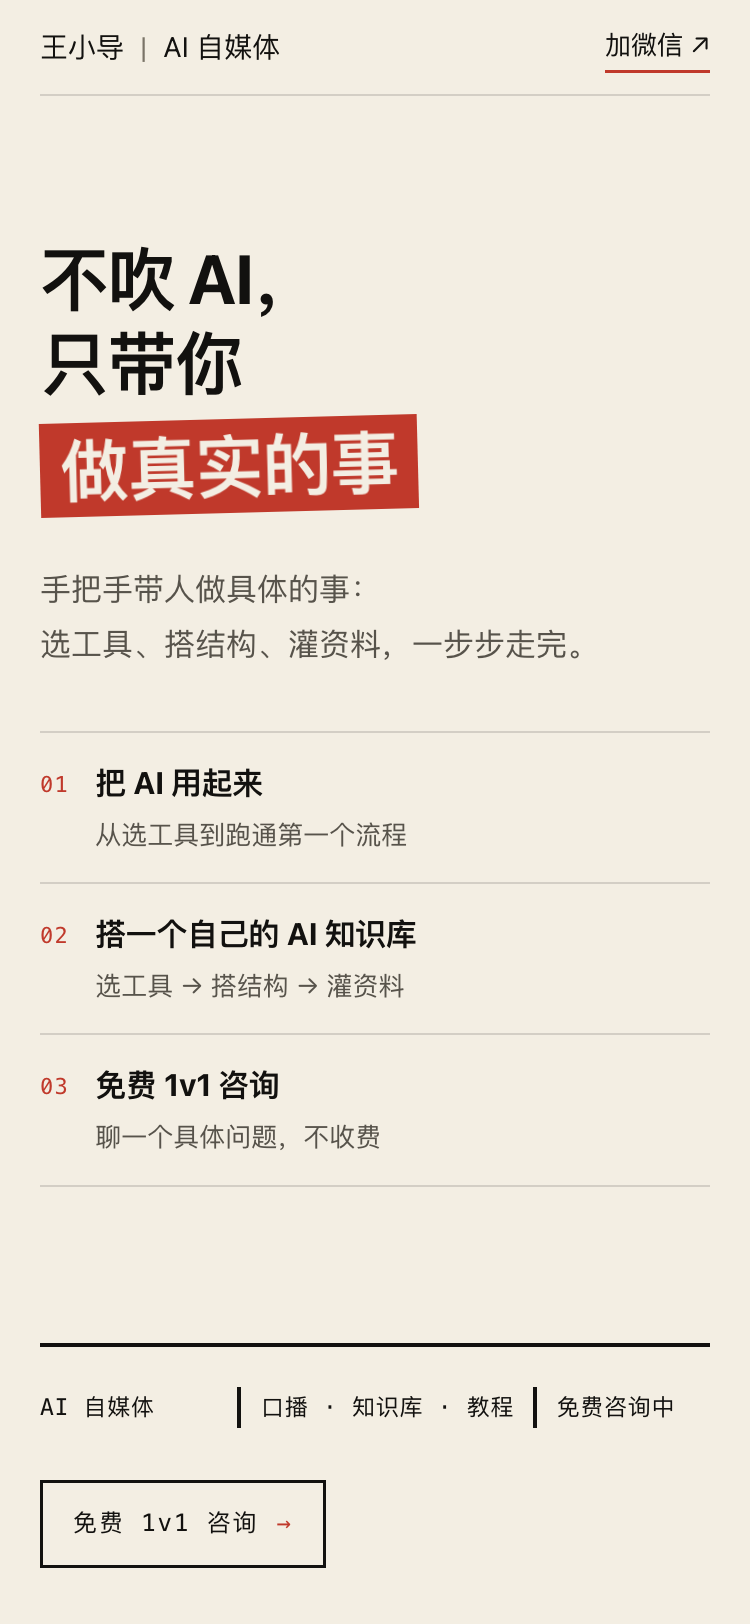
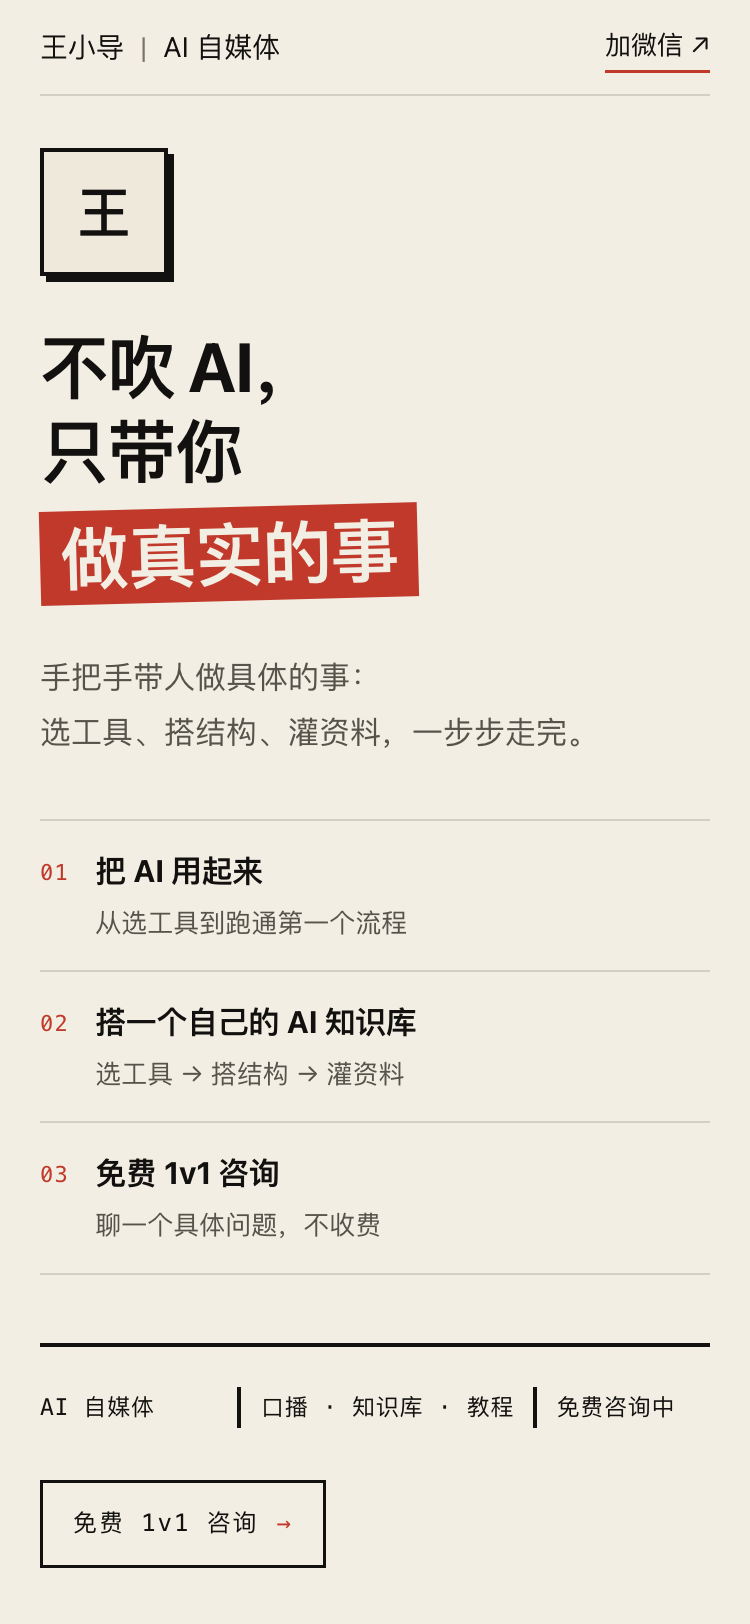
关于我加技能标签侧栏；首屏列表与分隔线对齐；头像提到首屏

diff --git a/index.html b/index.html
@@ -107,7 +107,7 @@
   }
   .lede{margin-top:22px;font-size:15.5px;line-height:1.75;color:var(--gray);max-width:30em}
   .nb{white-space:nowrap}
-  .can{list-style:none;margin-top:30px;border-top:1px solid var(--line);max-width:34em}
+  .can{list-style:none;margin-top:30px;border-top:1px solid var(--line)}
   .can li{
     display:flex;gap:13px;padding:14px 0;
     border-bottom:1px solid var(--line);line-height:1.45;
@@ -153,16 +153,30 @@
   }
   .sec-head h2{font-size:26px;font-weight:700;letter-spacing:-.02em}
 
-  /* 关于我 */
-  .about{display:grid;grid-template-columns:1fr;gap:24px}
+  /* 首屏头像 */
+  .hero-id{display:flex;align-items:center;margin-bottom:24px}
   .avatar{
-    width:96px;height:96px;flex:none;
-    border:2px solid var(--ink);box-shadow:4px 4px 0 var(--ink);
+    width:64px;height:64px;flex:none;
+    border:2px solid var(--ink);box-shadow:3px 3px 0 var(--ink);
     background:#EFE9DC;position:relative;overflow:hidden;
     display:grid;place-items:center;
-    font-size:40px;font-weight:700;letter-spacing:0;
+    font-size:27px;font-weight:700;letter-spacing:0;
   }
   .avatar img{position:absolute;inset:0;width:100%;height:100%;object-fit:cover}
+
+  /* 关于我 */
+  .about{display:grid;grid-template-columns:1fr;gap:32px}
+  .tags-h{
+    font-family:var(--mono);font-size:11px;letter-spacing:.08em;
+    color:var(--gray);
+    border-top:2px solid var(--ink);
+    padding-top:13px;margin-bottom:14px;
+  }
+  .tag-list{list-style:none;display:flex;flex-wrap:wrap;gap:8px}
+  .tag-list li{
+    border:1.5px solid var(--ink);padding:5px 11px;
+    font-size:13px;line-height:1.45;white-space:nowrap;
+  }
   .about-text{display:flex;gap:14px}
   .about-text .bar{width:6px;background:var(--red);flex:none}
   .about-text p{font-size:16px;line-height:1.9;max-width:34em}
@@ -270,11 +284,11 @@
 
   /* ---------- 平板 ---------- */
   @media (min-width:600px){
-    .about{grid-template-columns:112px 1fr;gap:26px;align-items:start}
-    .avatar{width:112px;height:112px;font-size:40px;box-shadow:5px 5px 0 var(--ink)}
+    .avatar{width:76px;height:76px;font-size:31px;box-shadow:4px 4px 0 var(--ink)}
     .cards{grid-template-columns:1fr 1fr;gap:22px}
     .card:last-child{grid-column:1 / -1}
     .card .what{max-width:30em}
+    .about-text p{max-width:32em}
   }
 
   /* ---------- 桌面 ---------- */
@@ -312,13 +326,15 @@
     .band{display:none}
     .sec-head{margin-bottom:32px}
     .sec-head h2{font-size:32px}
-    .about{grid-template-columns:150px 1fr;gap:32px;align-items:start}
-    .avatar{width:150px;height:150px;font-size:58px;box-shadow:6px 6px 0 var(--ink)}
+    .about{display:grid;grid-template-columns:minmax(0,1fr) 244px;column-gap:56px;align-items:start}
+    .tag-list{flex-direction:column;align-items:flex-start;gap:7px}
+    .about-text p{font-size:17px;max-width:none}
+    .hero-id{margin-bottom:32px}
+    .avatar{width:88px;height:88px;font-size:37px;box-shadow:4px 4px 0 var(--ink)}
     .about-text .bar{width:8px}
     .cards{grid-template-columns:repeat(3,1fr);gap:22px}
     .card:last-child{grid-column:auto}
     .card{padding:28px 24px}
-    .about-text p{max-width:38em}
     .contact{padding:88px 0 80px;position:relative;overflow:hidden}
     .contact .note{max-width:32em}
     .act{margin-top:34px;text-align:left}
@@ -347,6 +363,13 @@
   </div>
 
   <div class="hero-main">
+    <div class="hero-id">
+      <div class="avatar">
+        <span>王</span>
+        <img src="./avatar.jpg" alt="王小导的头像" onerror="this.remove()">
+      </div>
+    </div>
+
     <h1>不吹 AI，<br>只带你<br><span class="sticker">做真实的事</span></h1>
 
     <p class="lede"><span class="nb">手把手带人做具体的事：</span><span class="nb">选工具、搭结构、灌资料，一步步走完。</span></p>
@@ -389,10 +412,6 @@
   <section class="wrap" id="about">
     <div class="sec-head"><span class="num">01</span><h2>关于我</h2></div>
     <div class="about">
-      <div class="avatar">
-        <span>王</span>
-        <img src="./avatar.jpg" alt="王小导的头像" onerror="this.remove()">
-      </div>
       <div class="about-text">
         <div class="bar"></div>
         <div>
@@ -400,6 +419,17 @@
           <p>我不太擅长把 AI 讲得很玄。我更愿意手把手带人做一件具体的事——工具选哪个、知识库的结构怎么搭、资料怎么灌进去，一步一步走完，走完你手上真有个东西。</p>
           <p>口播还在练，粉丝不多，10 多个，但我一条一条在发。主页上我最想让人记住的，就四个字：做真实的事。</p>
         </div>
+      </div>
+
+      <div class="tags">
+        <div class="tags-h">我会的</div>
+        <ul class="tag-list">
+          <li>AI 自媒体</li>
+          <li>口播表达</li>
+          <li>AI 知识库搭建</li>
+          <li>公众号教程写作</li>
+          <li>内容生产流程</li>
+        </ul>
       </div>
     </div>
   </section>

diff --git a/README.md b/README.md
@@ -19,8 +19,8 @@
 
 | 区块 | 内容 |
 |---|---|
-| 首屏 | 一句话主张、三条「我能帮你做什么」、底部数字（3 条内容线 / 1 个知识库 / 10+ 粉丝）与免费咨询入口 |
-| 01 关于我 | 头像 + 三段第一人称自述 |
+| 首屏 | 头像、一句话主张、三条「我能帮你做什么」、底部数字（3 条内容线 / 1 个知识库 / 10+ 粉丝）与免费咨询入口 |
+| 01 关于我 | 三段第一人称自述 + 技能标签（桌面端在右侧栏，窄屏在正文下方） |
 | 02 在做的事 | 三张硬边卡片：AI 知识库、口播练习、公众号 AI 实操教程 |
 | 数字带（手机端） | 墨黑底色，三条内容线 / 1 个知识库 / 10+ 粉丝；桌面端这组数字在首屏底部 |
 | 咨询 | 免费 1v1 咨询，一键复制微信号 |
@@ -28,7 +28,7 @@
 
 ## 技术说明
 
-- **单文件**：HTML、CSS、JS 全部内联在 `index.html` 里，约 18 KB，无任何依赖。
+- **单文件**：HTML、CSS、JS 全部内联在 `index.html` 里，约 21 KB，无任何依赖。
 - **不引外部资源**：不用 Google Fonts、不用 Tailwind CDN、不加载任何第三方脚本。字体走系统字体栈（PingFang SC / HarmonyOS Sans / MiSans / 微软雅黑），国内打开无需等待。
 - **手机优先**：375px 起排版，600px 转平板两栏，900px 转桌面三栏。任何宽度都不会出现横向滚动条。
 - **动效克制**：首屏逐级上浮、贴纸归位、数字滚动一次。全部只动 `transform` 和 `opacity`，不触发重排。
